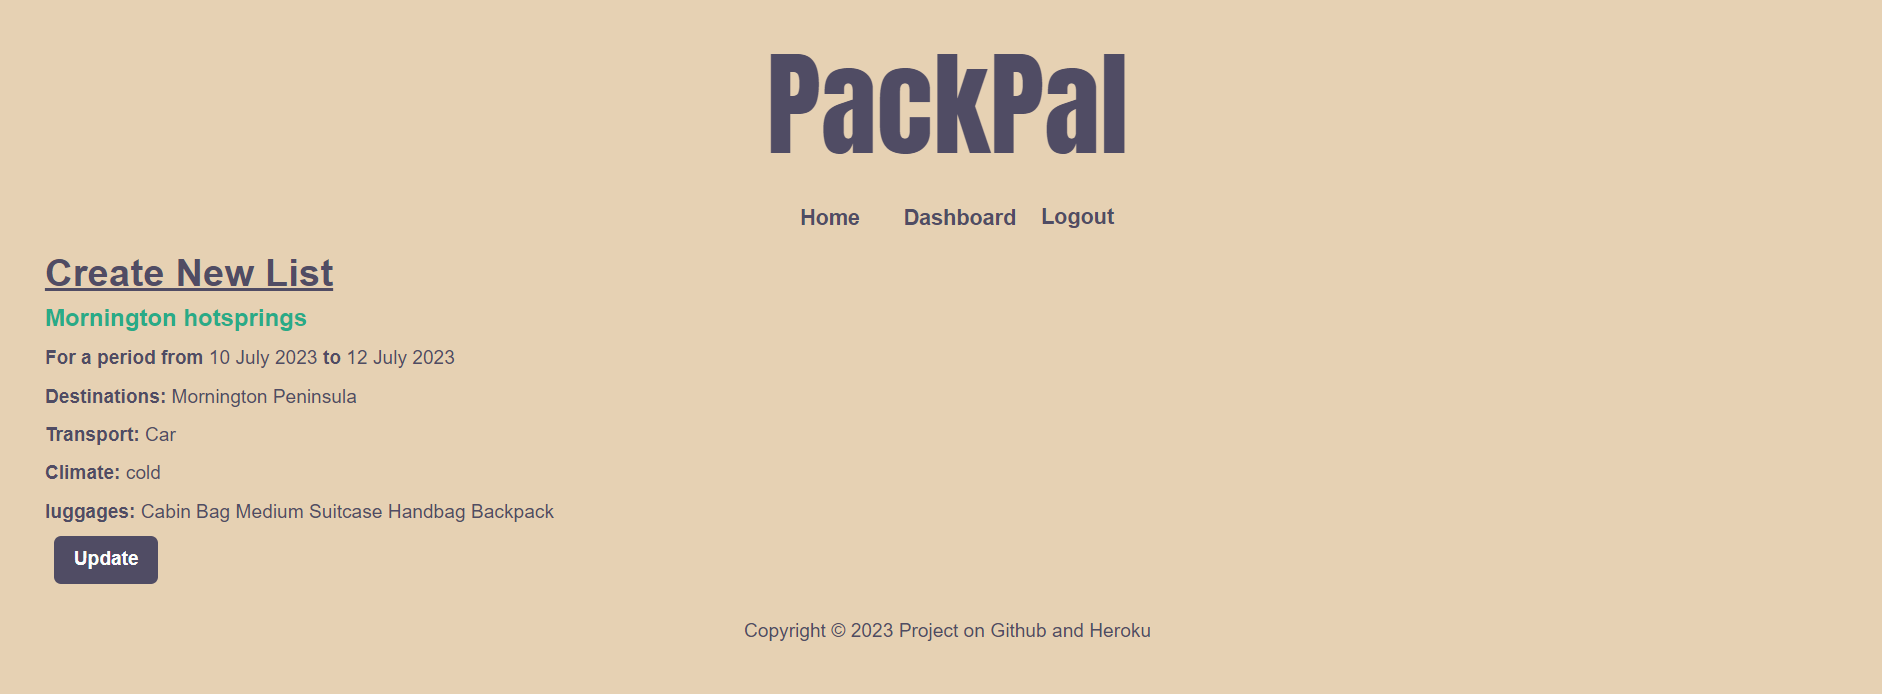
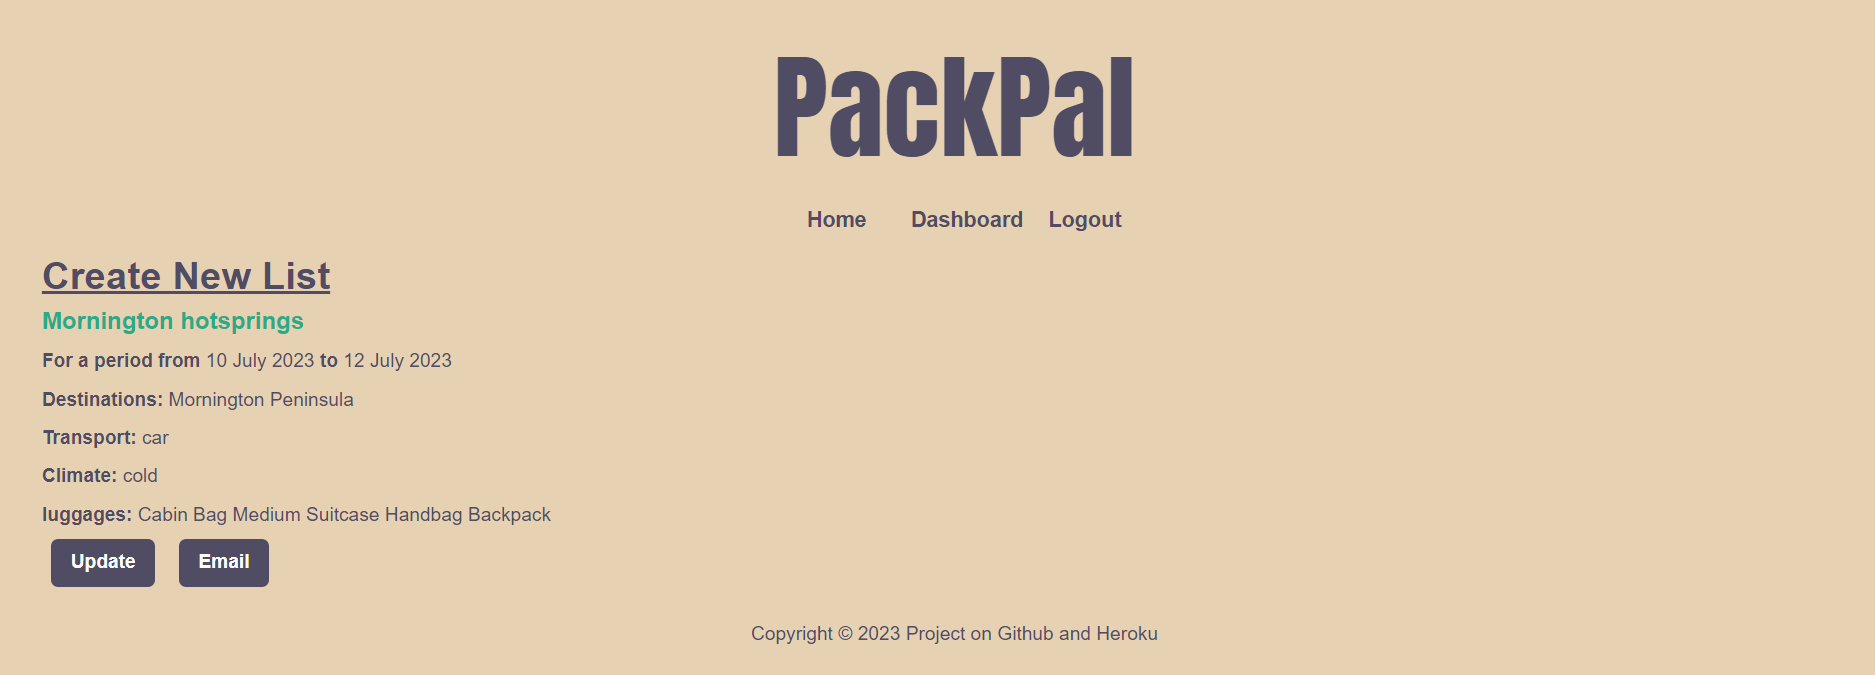
update readme to include new-feature

diff --git a/README.md b/README.md
@@ -36,7 +36,11 @@ Once at the sign-up page, you may enter your chosen credentials to create an acc
 
 ![Screenshot of dashboard](./public/assets/dashboard_ss.png)
 
-Here, you will be able to see all the packing lists, and their journey summaries, you have created. You may click on the "create new list" link to create a brand-new list. You may also click on the title of your already-created list to both add items to that list, as well as see the items you have already added.
+Here, you will be able to see all the packing lists, and their journey summaries, you have created. You can click on the Update button to update basic travel details or click on the Email button to your list of items eg. to a travel companion.
+
+![Screenshot of email form](./public/assets/emailmodal_ss.png)
+
+You may click on the "create new list" link to create a brand-new list. You may also click on the title of your already-created list to both add items to that list, as well as see the items you have already added.
 
 ![Screenshot of create new list page](./public/assets/newlist_ss.png)
 
@@ -51,6 +55,8 @@ And there you have it! A simple and easy-to-use app for all your travel-packing-
 ## Credits
 
 <a href="https://www.freepik.com/icon/suitcase_2744091#fromView=search&term=luggage+tick&page=1&position=11&track=ais&uuid=048cc75c-22f1-46a2-896b-2fbcbbf01d01">Icon by Smashicons</a>
+
+Email sent using [Nodemailer](https://nodemailer.com/)
 
 ## Contacts
 
